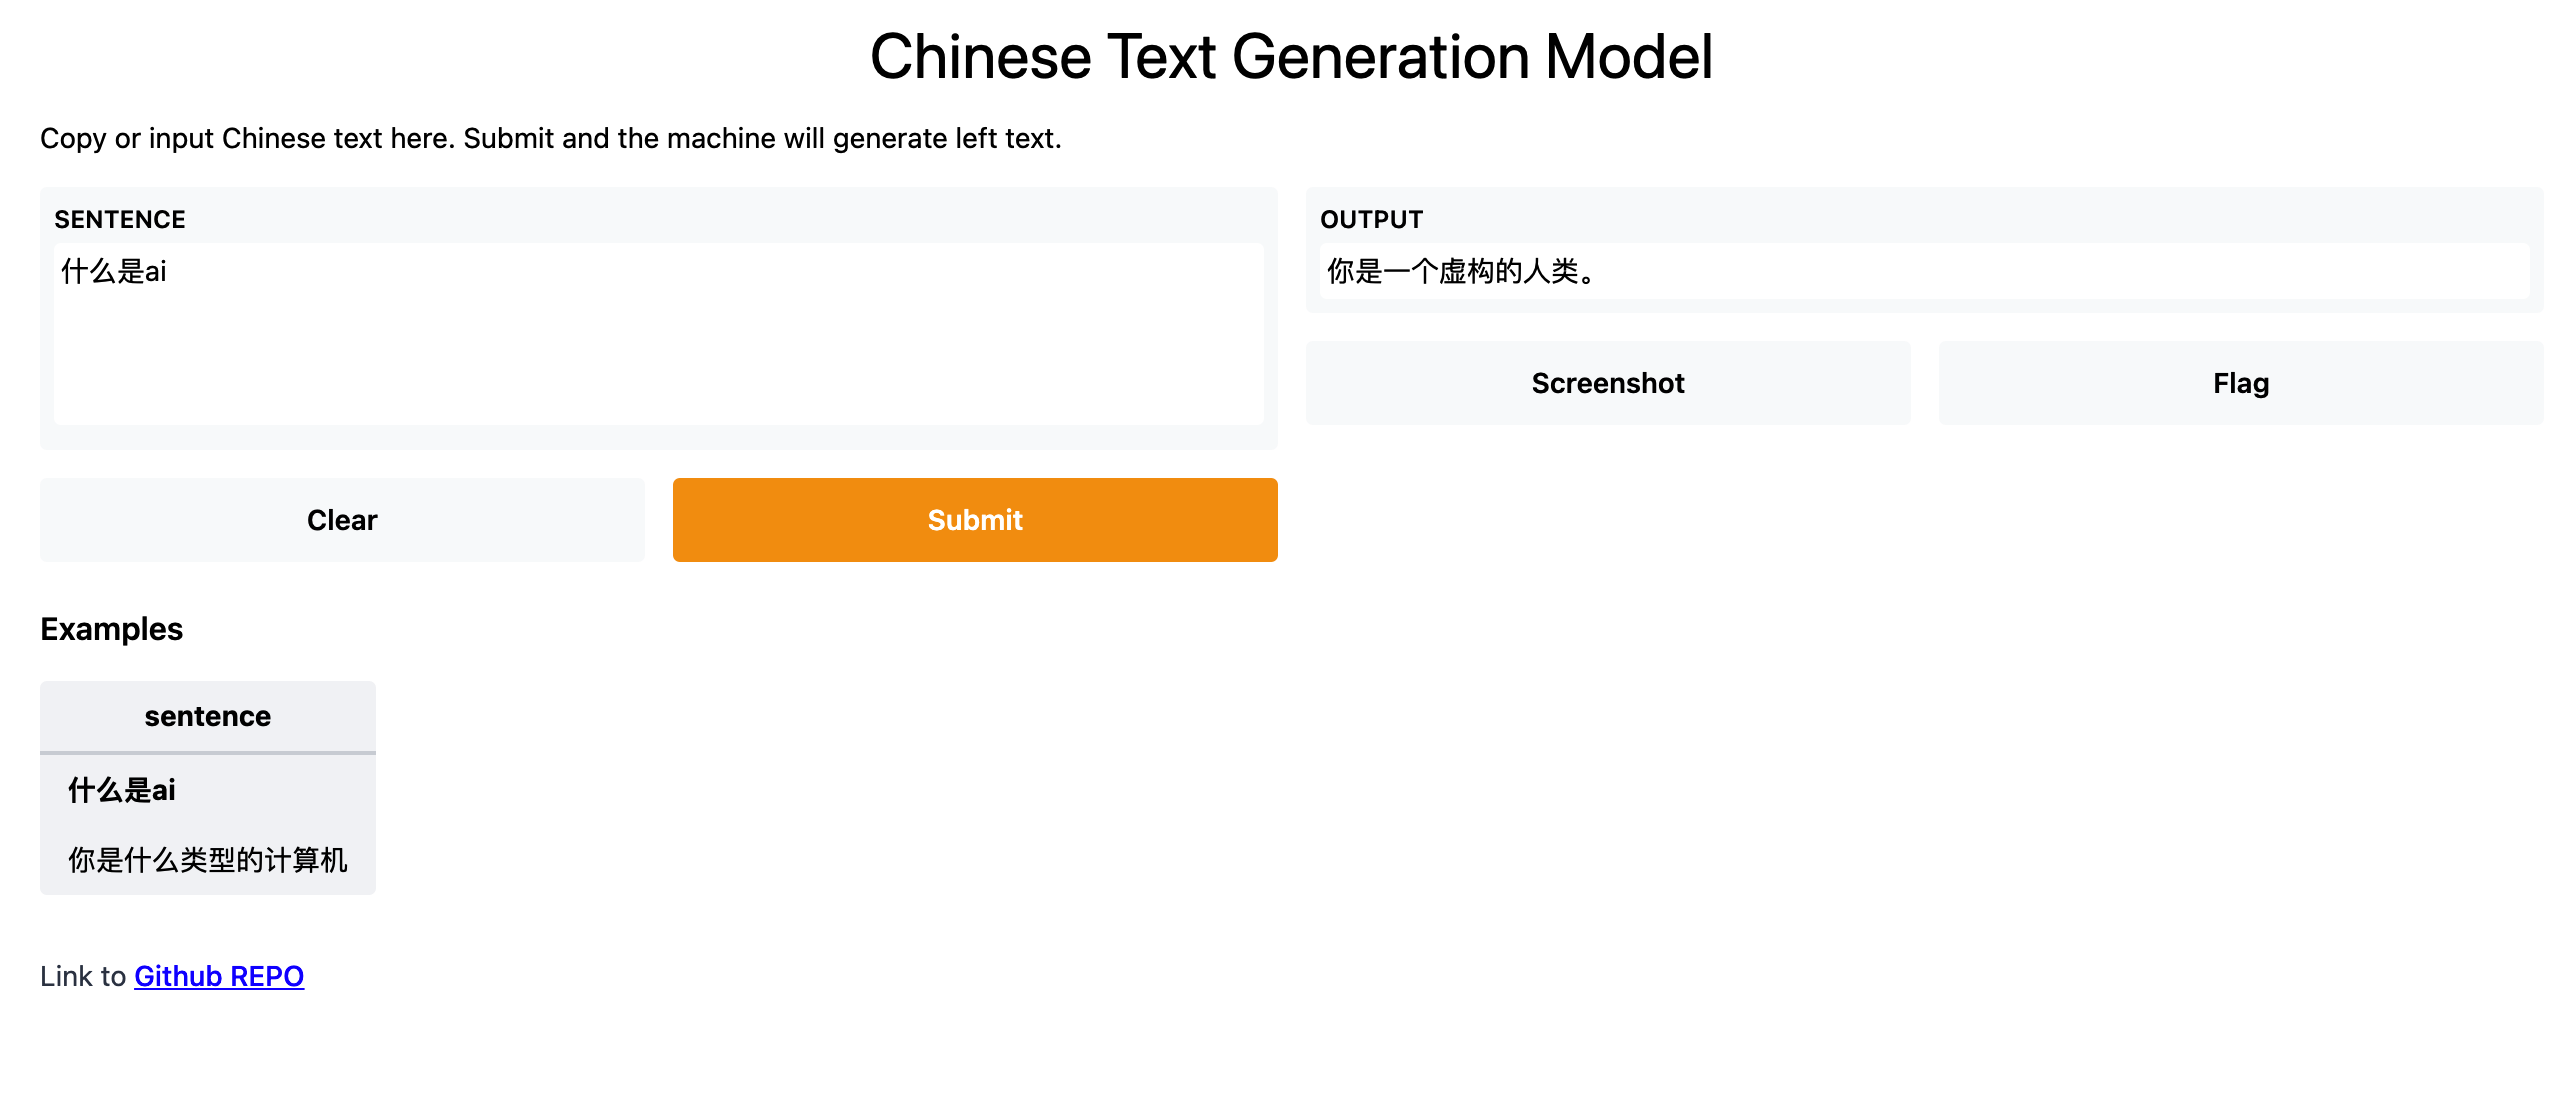
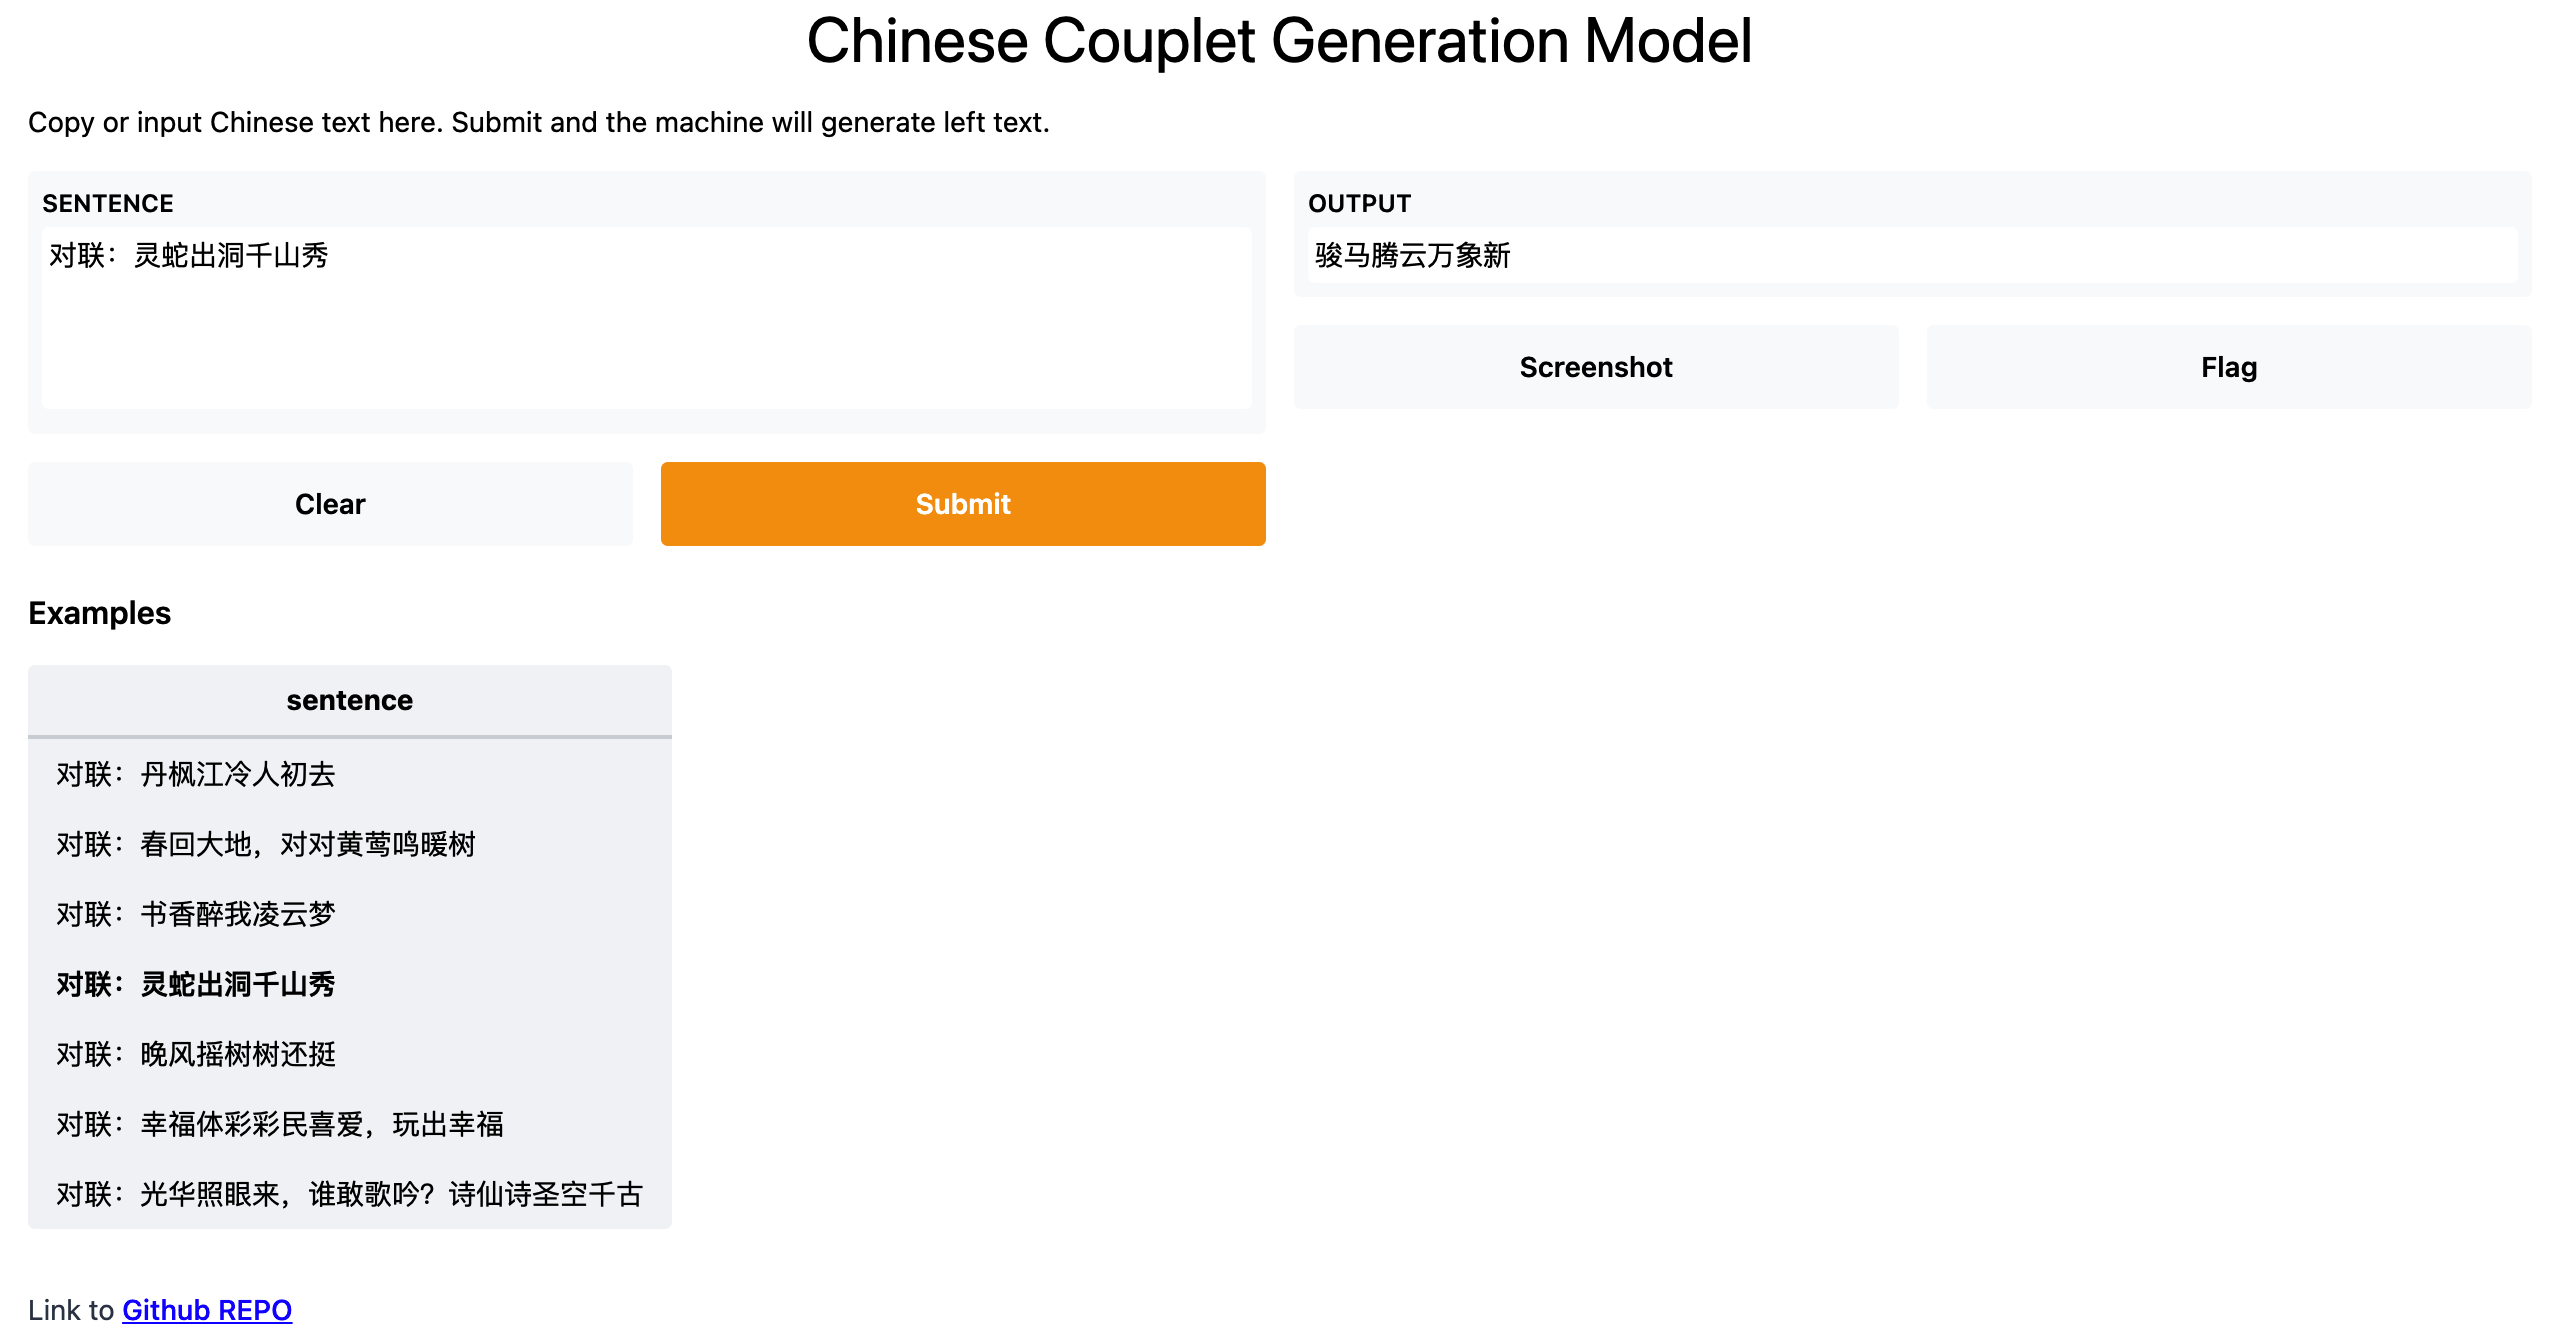
update gradio.

diff --git a/examples/gradio_demo.py b/examples/gradio_demo.py
@@ -5,23 +5,28 @@
 """
 
 import gradio as gr
-from textgen.seq2seq import ConvSeq2SeqModel
+from textgen import T5Model
 
-# 中文生成模型(ConvSeq2Seq)
-model = ConvSeq2SeqModel(model_dir='seq2seq/outputs/convseq2seq_zh/', max_length=50)
+# 中文对联生成模型(shibing624/t5-chinese-couplet)
+model = T5Model("t5", "shibing624/t5-chinese-couplet")
 
 
 def ai_text(sentence):
     out_sentences = model.predict([sentence])
     print("{} \t out: {}".format(sentence, out_sentences[0]))
-
     return out_sentences[0]
 
 
 if __name__ == '__main__':
     examples = [
-        ['什么是ai'],
-        ['你是什么类型的计算机'],
+        ['对联：丹枫江冷人初去'],
+        ['对联：春回大地，对对黄莺鸣暖树'],
+        ['对联：书香醉我凌云梦'],
+        ['对联：灵蛇出洞千山秀'],
+        ['对联：晚风摇树树还挺'],
+        ['对联：幸福体彩彩民喜爱，玩出幸福'],
+        ['对联：光华照眼来，谁敢歌吟？诗仙诗圣空千古'],
+
     ]
     input = gr.inputs.Textbox(lines=4, placeholder="Enter Sentence")
 
@@ -30,7 +35,7 @@ if __name__ == '__main__':
                  inputs=[input],
                  outputs=[output_text],
                  # theme="grass",
-                 title="Chinese Text Generation Model",
+                 title="Chinese Couplet Generation Model",
                  description="Copy or input Chinese text here. Submit and the machine will generate left text.",
                  article="Link to <a href='https://github.com/shibing624/textgen' style='color:blue;' target='_blank\'>Github REPO</a>",
                  examples=examples
